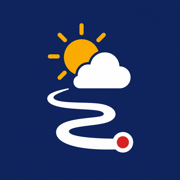
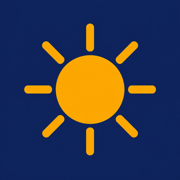
Simplifier l’icône et densifier la fiche météo

Changed region(s): [[0.1111, 0.1111, 0.8889, 0.8611]]

diff --git a/webapp/sw.js b/webapp/sw.js
@@ -1,4 +1,4 @@
-const CACHE = 'gpx-weather-v1';
+const CACHE = 'gpx-weather-v2';
 const ROOT = '/gpx-weather/';
 const SHELL = [ROOT, `${ROOT}manifest.webmanifest`, `${ROOT}icon-192.png`, `${ROOT}icon-512.png`];
 

diff --git a/carto.py b/carto.py
@@ -180,7 +180,7 @@ main{{position:relative;height:100dvh;display:flex;flex-direction:column;backgro
 .title{{position:relative;flex:0 0 auto;background:#18295c;color:white;padding:6px 48px;text-align:center;
 font-weight:800;font-size:clamp(14px,1.7vw,22px);line-height:1.1}}
 .menu-button{{position:absolute;left:8px;top:50%;transform:translateY(-50%);width:32px;height:28px;border:0;border-radius:6px;
-background:#ffffff20;color:#fff;font-size:20px;line-height:1;cursor:pointer}} .route-menu{{position:absolute;z-index:2000;left:8px;top:38px;
+background:transparent;color:#fff;font-size:20px;line-height:1;cursor:pointer}} .route-menu{{position:absolute;z-index:2000;left:8px;top:38px;
 min-width:220px;background:#fff;border-radius:10px;padding:6px;box-shadow:0 5px 20px #0005;text-align:left}}
 .route-menu[hidden]{{display:none}} .route-menu a{{display:block;padding:9px 11px;border-radius:7px;color:#17234d;text-decoration:none;font-size:14px;font-weight:650}}
 .route-menu a:hover{{background:#edf1fa}}
@@ -193,16 +193,16 @@ text-shadow:-1px -1px 0 #fff,1px -1px 0 #fff,-1px 1px 0 #fff,1px 1px 0 #fff}}
 .details{{flex:1;min-height:0;overflow:hidden;background:#fff;color:#17234d;line-height:1.2}}
 .details[hidden]{{display:none}} main.details-open #map,main.details-open .controls{{display:none}}
 .details-shell{{width:min(920px,100%);height:100%;margin:auto;padding:8px 14px;display:flex;flex-direction:column;overflow:hidden}}
-.sheet-head{{flex:0 0 auto;display:grid;grid-template-columns:auto 1fr auto;align-items:center;gap:10px;margin-bottom:4px}}
-.sheet-head h2{{font-size:20px;text-align:center;margin:0;color:#111}}
-.close-details{{border:1px solid #ddd;background:#f6f6f8;border-radius:18px;padding:6px 12px;font-size:13px;cursor:pointer}}
-.daily-strip{{flex:0 0 70px;display:flex;gap:3px;overflow-x:auto;padding:3px 6px;scrollbar-width:none;scroll-snap-type:x mandatory;border-bottom:1px solid #ddd}}
-.daily-strip::-webkit-scrollbar{{display:none}} .daily-choice{{flex:0 0 56px;width:56px;border:0;background:transparent;border-radius:8px;padding:2px;
+.sheet-head{{position:relative;flex:0 0 32px;display:flex;align-items:center;margin-bottom:4px}}
+.sheet-head h2{{position:absolute;left:50%;width:70%;transform:translateX(-50%);font-size:20px;text-align:center;margin:0;color:#111}}
+.close-details{{position:absolute;z-index:1;left:0;top:50%;transform:translateY(-50%);border:1px solid #ddd;background:#f6f6f8;border-radius:18px;padding:6px 12px;font-size:13px;cursor:pointer}}
+.daily-strip{{flex:0 0 70px;display:flex;gap:0;overflow-x:auto;padding:3px 0;scrollbar-width:none;scroll-snap-type:x mandatory;border-bottom:1px solid #ddd}}
+.daily-strip::-webkit-scrollbar{{display:none}} .daily-choice{{flex:0 0 48px;width:48px;border:0;background:transparent;border-radius:8px;padding:2px 0;
 display:grid;grid-template-columns:1fr;grid-template-rows:28px 14px 20px;place-items:center;color:#70768c;scroll-snap-align:center;cursor:pointer}}
 .daily-choice .daily-icon{{font-size:21px;line-height:1}} .daily-choice .daily-weekday{{font-size:9px;line-height:1}} .daily-choice .daily-number{{font-size:14px;line-height:1;font-weight:800;color:#315bb5}}
 .daily-choice.active{{background:#f6a800;color:#fff}} .daily-choice.active .daily-number{{color:#fff}}
 #details-content{{flex:1;min-height:0;display:flex;flex-direction:column;overflow:hidden}}
-.forecast-chart{{flex:1 1 auto;min-height:125px;background:#fafafd;border-radius:10px;padding:3px;overflow:hidden}} .forecast-chart svg{{display:block;width:100%;height:100%}}
+.forecast-chart{{flex:1 1 0;min-height:0;background:#fafafd;border-radius:10px;overflow:hidden}} .forecast-chart svg{{display:block;width:100%;height:100%}}
 .metric-grid{{flex:0 0 auto;display:grid;grid-template-columns:repeat(3,1fr);gap:6px;margin-top:7px}}
 .metric{{min-height:58px;background:#ececf2;border-radius:9px;padding:7px 9px}} .metric-label{{display:block;font-size:10px;color:#68708c;margin-bottom:3px}}
 .metric-value{{display:block;font-size:15px;font-weight:800;color:#17234d}} .metric.temperature-card{{background:#ff4b4f}} .metric.gust-card{{background:#55c94c}}
@@ -276,20 +276,20 @@ function layoutLabels(){{
   }}
 }}
 function escapeHtml(text){{const node=document.createElement('div');node.textContent=String(text);return node.innerHTML}}
-function dailyChart(town,selectedIndex){{const rows=town.daily,width=820,height=350,pad=34,tempTop=24,tempBottom=190,windBase=300;
+function dailyChart(town,selectedIndex){{const rows=town.daily,width=820,height=350,pad=16,tempTop=24,tempBottom=190,windBase=300;
   const temperatures=rows.flatMap(row=>[row.temperature_min,row.temperature_max]),tempMin=Math.floor(Math.min(...temperatures)-1),tempMax=Math.ceil(Math.max(...temperatures)+1);
   const maxWind=Math.max(1,...rows.map(row=>row.wind)),x=index=>pad+index/Math.max(1,rows.length-1)*(width-pad*2);
   const yTemp=value=>tempTop+(tempMax-value)/(tempMax-tempMin)*(tempBottom-tempTop),barWidth=Math.min(28,(width-pad*2)/rows.length*.55);
   const maxPoints=rows.map((row,index)=>`${{x(index)}},${{yTemp(row.temperature_max)}}`).join(' '),minPoints=rows.map((row,index)=>`${{x(index)}},${{yTemp(row.temperature_min)}}`).join(' ');
   const columns=rows.map((row,index)=>{{const px=x(index),barHeight=row.wind/maxWind*78,selected=index===selectedIndex;
-    return `<line x1="${{px}}" y1="18" x2="${{px}}" y2="${{windBase+24}}" stroke="${{selected?'#f6a800':'#e1e3e9'}}" stroke-width="${{selected?4:1}}" opacity="${{selected ? .65 : 1}}"/>
+    return `<rect x="${{px-barWidth/2}}" y="18" width="${{barWidth}}" height="${{windBase+6}}" rx="3" fill="${{selected?'#c9cdd6':'#eef0f4'}}" opacity="${{selected?.75:.7}}"/>
     <rect x="${{px-barWidth/2}}" y="${{windBase-barHeight}}" width="${{barWidth}}" height="${{barHeight}}" rx="3" fill="#50c744"/>
     <text x="${{px}}" y="${{windBase-barHeight-5}}" text-anchor="middle" font-size="10" fill="#389b31">${{row.wind}}</text>
     <text x="${{px}}" y="${{windBase+16}}" text-anchor="middle" font-size="17" fill="#17234d" transform="rotate(${{row.wind_degrees}} ${{px}} ${{windBase+11}})">↑</text>
     <text x="${{px}}" y="${{height-7}}" text-anchor="middle" font-size="10" fill="#70768c">${{row.weekday}} ${{row.day}}</text>`}}).join('');
   const labels=rows.map((row,index)=>`<text x="${{x(index)}}" y="${{yTemp(row.temperature_max)-7}}" text-anchor="middle" font-size="10" fill="#ef4444">${{row.temperature_max}}</text>
   <text x="${{x(index)}}" y="${{yTemp(row.temperature_min)+14}}" text-anchor="middle" font-size="10" fill="#3182ce">${{row.temperature_min}}</text>`).join('');
-  return `<div class="forecast-chart"><svg viewBox="0 0 ${{width}} ${{height}}" role="img">${{columns}}
+  return `<div class="forecast-chart"><svg viewBox="0 0 ${{width}} ${{height}}" preserveAspectRatio="none" role="img">${{columns}}
   <polyline points="${{maxPoints}}" fill="none" stroke="#ef4444" stroke-width="4" stroke-linejoin="round"/> <polyline points="${{minPoints}}" fill="none" stroke="#3182ce" stroke-width="4" stroke-linejoin="round"/>
   ${{labels}}</svg></div>`}}
 function showDetails(id,date=null){{stop();selectedTownId=id;const town=townById[id];if(!town?.daily.length)return;

diff --git a/app.py b/app.py
@@ -76,7 +76,7 @@ def write_routes_index(routes):
 <link rel="manifest" href="manifest.webmanifest"><link rel="icon" href="icon-192.png"><link rel="apple-touch-icon" href="apple-touch-icon.png">
 <style>*{{box-sizing:border-box}}body{{margin:0;background:#f4f6fa;color:#17234d;font-family:system-ui,sans-serif}}
 .title{{position:relative;background:#18295c;color:#fff;padding:7px 48px;text-align:center;font-size:clamp(14px,1.7vw,22px);font-weight:800;line-height:1.1}}
-.menu-button{{position:absolute;left:8px;top:50%;transform:translateY(-50%);width:32px;height:28px;border:0;border-radius:6px;background:#ffffff20;color:#fff;font-size:20px;line-height:1;cursor:pointer}}
+.menu-button{{position:absolute;left:8px;top:50%;transform:translateY(-50%);width:32px;height:28px;border:0;border-radius:6px;background:transparent;color:#fff;font-size:20px;line-height:1;cursor:pointer}}
 .route-menu{{position:absolute;z-index:10;left:8px;top:38px;min-width:220px;background:#fff;border-radius:10px;padding:6px;box-shadow:0 5px 20px #0005}}
 .route-menu[hidden]{{display:none}}.route-menu a{{display:block;padding:9px 11px;border-radius:7px;color:#17234d;text-decoration:none;font-size:14px;font-weight:650}}.route-menu a:hover{{background:#edf1fa}}
 .content{{width:min(720px,100%);margin:auto;padding:24px 18px 40px}}h1{{font-size:25px;margin:0 0 16px}}h2{{font-size:19px;margin:28px 0 10px}}